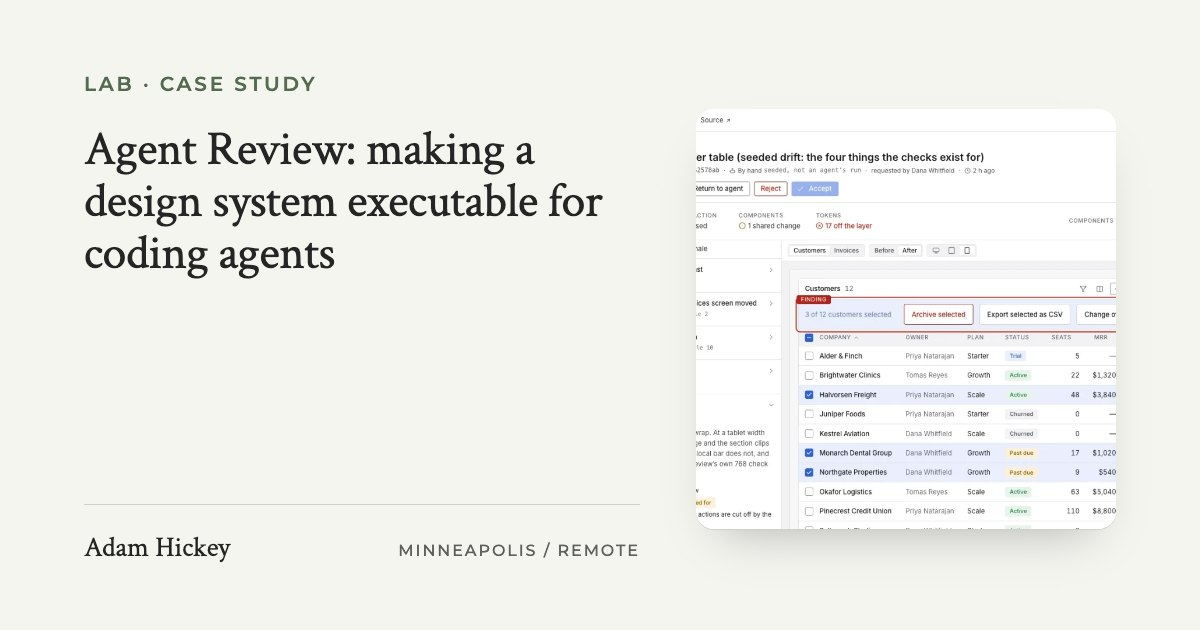
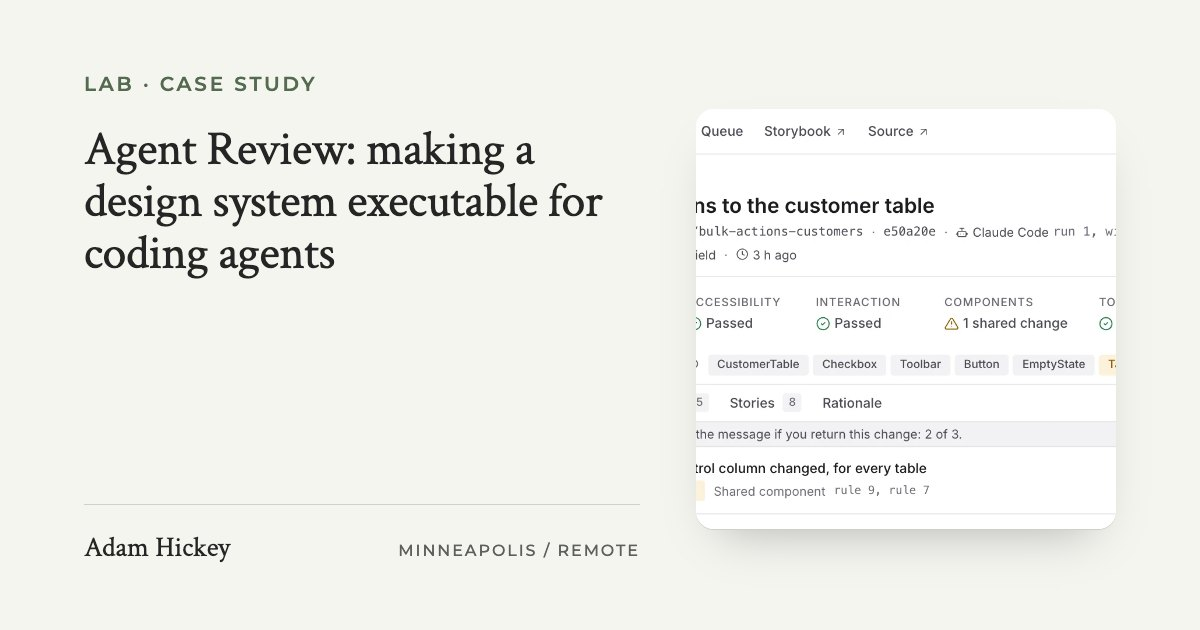
The lab card shows the caution triangle and the first finding whole; its alt says so
The card is a capture of run 1's change screen at the product's 720px layout, and it
showed the old amber ring. Retaking it at the card's own 405px height now puts the
product's bottom decision bar over the first finding's row, so the capture is taken in
a 480px viewport and the card is the top 405 of it: the five lanes with their
triangles, the components touched, the tabs, and the first finding whole, with its
triangle, "Needs a decision" and its rule, which the card's new copy is about. The
decision buttons are no longer in the frame (they are in the bar, below it) and the
write-up's hero shows them. The card's alt text said they were there, and now says what
the picture shows. The og card for the write-up is regenerated from it.

Separate from the figures' commit so it can be dropped on its own.

diff --git a/index.html b/index.html
@@ -666,7 +666,7 @@
             </div>
             <a class="case-thumb build-laptop" href="lab/agent-review.html" aria-label="Read the Agent Review case study">
               <div class="build-laptop-lid">
-                <img decoding="async" loading="lazy" src="img/lab/agent-review-card.webp?v=4" alt="Agent Review open on the change &ldquo;Add bulk actions to the customer table&rdquo;, built by Claude Code: Return to agent, Reject and Accept buttons; a validation line reading Visual 4 changes, Accessibility passed, Interaction passed, Components 1 shared change, Tokens passed; the components the change touched; and the first finding, &ldquo;The Table&rsquo;s control column changed, for every table&rdquo;, marked Needs a decision under shared component rules 9 and 7." width="1280" height="720"/>
+                <img decoding="async" loading="lazy" src="img/lab/agent-review-card.webp?v=5" alt="Agent Review open on the change &ldquo;Add bulk actions to the customer table&rdquo;, built by Claude Code: a validation line reading Visual 4 changes, Accessibility passed, Interaction passed, Components 1 shared change, Tokens passed, with a caution triangle on the two that need a look; the components the change touched; and the first finding, &ldquo;The Table&rsquo;s control column changed, for every table&rdquo;, marked Needs a decision under shared component rules 9 and 7." width="1280" height="720"/>
               </div>
             </a>
           </div>

diff --git a/lab/index.html b/lab/index.html
@@ -238,7 +238,7 @@
         <ol class="writing-list">
           <li class="writing-item">
             <a class="writing-link" href="agent-review.html">
-              <img class="writing-card" src="../img/lab/agent-review-card.webp?v=4" width="1280" height="720" alt="" decoding="async" />
+              <img class="writing-card" src="../img/lab/agent-review-card.webp?v=5" width="1280" height="720" alt="" decoding="async" />
               <div class="writing-text">
                 <h3 class="writing-title">Agent Review: making a design system executable for coding agents</h3>
                 <p class="writing-dek">If agents can write production UI, how does a team make sure they inherit the decisions already made? A React component system with tokens and a Storybook, the rules an agent reads before touching it, a controlled experiment where Claude Code added a feature inside it, the validation that caught where it drifted, and the tool a person uses to review the consequences and send a precise correction back.</p>
